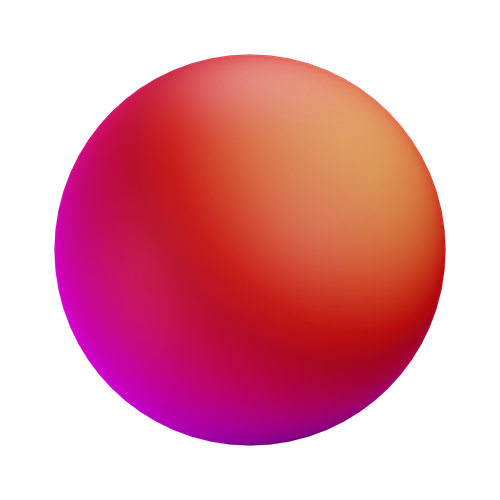
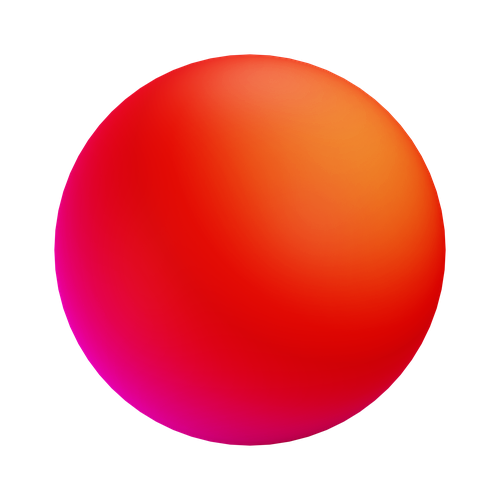
cambio colores

diff --git a/src/components/Game.tsx b/src/components/Game.tsx
@@ -27,9 +27,9 @@ function Game() {
   const [waiting, setWaiting] = useState(false);
 
   const [powerUps, setPowerUps] = useState<PowerUp[]>([
-    { id: 'mezclar', name: 'Mezclar', image: '/lib/imágenes/mezclar.png', count: 1 },
+    { id: 'mezclar', name: 'Mezclar', image: '/lib/imágenes/mezclar.png', count: 3 },
     { id: 'borrador', name: 'borrar una bolita', image: '/lib/imágenes/borrador.png', count: 2 },
-    { id: 'borrar_color', name: 'borrar todo un un color', image: '/lib/imágenes/borrar_color.png', count: 3 },
+    { id: 'borrar_color', name: 'borrar todo un un color', image: '/lib/imágenes/borrar_color.png', count: 1 },
     { id: 'cruz', name: 'borrar en forma de cruz', image: '/lib/imágenes/cruz.png', count: 2 } 
   ]);
   const [activePowerUp, setActivePowerUp] = useState<PowerUpId | null>(null);

diff --git a/pengines_server/apps/proylcc/INFORME.md b/pengines_server/apps/proylcc/INFORME.md
@@ -133,3 +133,16 @@ init([
 	[-], [y, ~], [y, ~], [y], [-], [-], [-], [-]
 ], 8, [[r, 10], [g, 10], [p, 15], [~, 21]], 35).
 */
+
+/*
+init([
+    [g], [g], [g], [g], [g], [g], [g], [g],
+    [g], [y], [y], [y], [c], [g], [~], [g],
+    [g], [y], [p], [y], [c], [g], [g], [g],
+    [g], [y], [y], [y], [c], [r], [r], [g],
+    [g], [p], [p], [p], [p], [r], [~], [g],
+    [g], [-], [-], [-], [p], [r], [r], [g],
+    [g], [-], [c,~], [-], [p], [c], [c], [g],
+    [g], [-], [-], [-], [p], [c], [g], [g],
+    [g], [g], [g], [g], [g], [g], [g], [g]
+], 8, [[g,20],[r,10],[p,15],[~,5]], 30).*/
